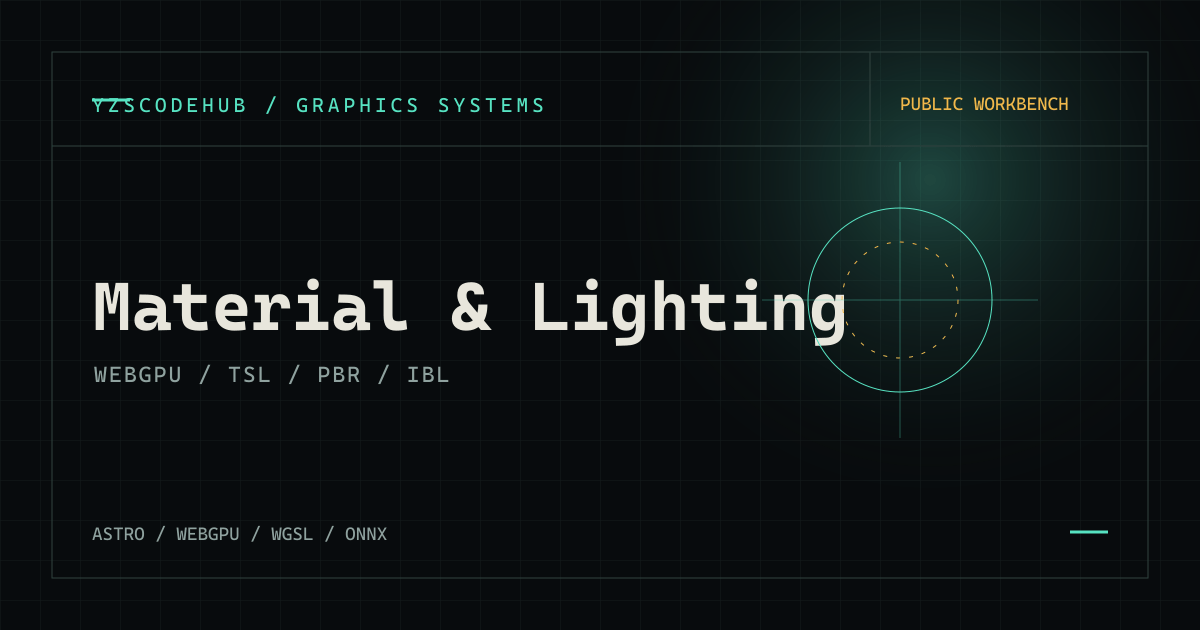
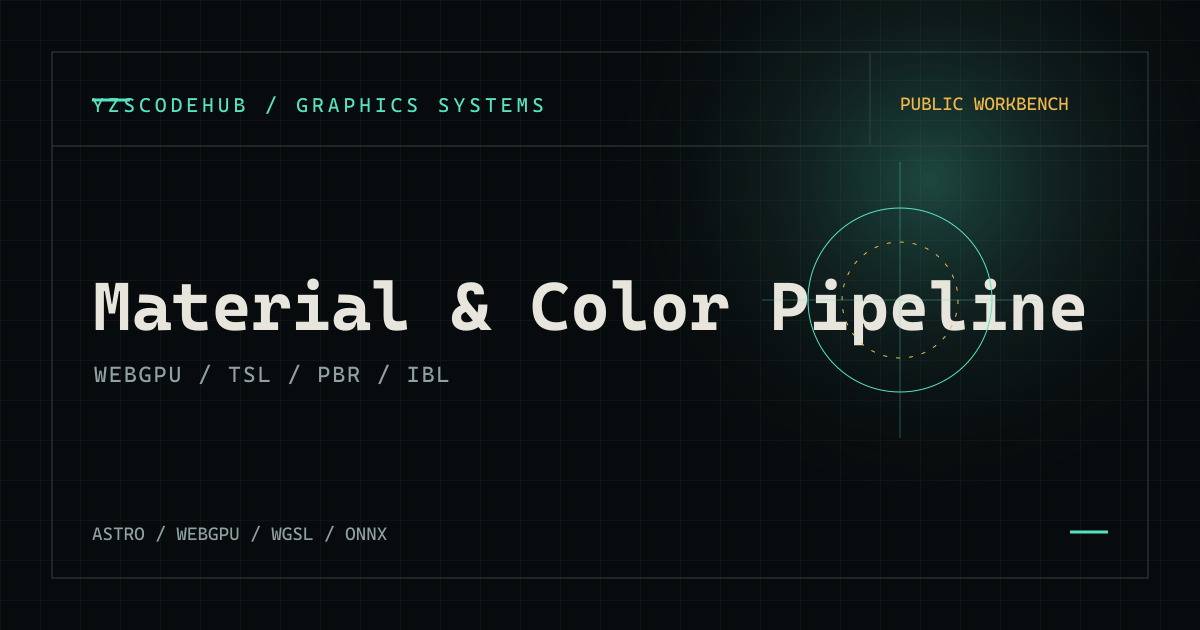
docs: align rendering maturity and evidence

Changed region(s): [[0.4317, 0.4222, 0.925, 0.573]]

diff --git a/src/content/demos/material-lighting.en.md b/src/content/demos/material-lighting.en.md
@@ -2,13 +2,13 @@
 routeSlug: material-lighting
 translationKey: material-lighting
 locale: en
-title: Material & Lighting Lab
+title: Material & Color Pipeline
 summary: Inspect a Three.js WebGPURenderer and TSL PBR calibration scene with WebGL2 and Canvas fallbacks.
 category: rendering
 renderer: Three.js WebGPURenderer + TSL
 backend: three-webgpu
-status: completed
-maturity: completed
+status: in-progress
+maturity: in-progress
 evidence: verified
 backends:
   - id: three-webgpu
@@ -42,17 +42,20 @@ fallback:
   description: A procedural Canvas 2D material preview remains available when the Three.js multi-backend renderer cannot initialize.
   image: /media/demos/material-lighting-poster.svg
 controls:
+  - "Preset: Dielectric / Metal / Rough / Clearcoat"
   - Base Color
-  - Metallic
+  - Metalness
   - Roughness
+  - Clearcoat
+  - Clearcoat Roughness
   - Exposure
   - "Tone Mapping: ACES / AgX / LINEAR"
-  - "Debug: FINAL / NORMAL / ROUGHNESS / METALNESS / DIRECT / INDIRECT"
+  - "View: FINAL / NORMAL / ROUGHNESS / METALNESS / DIRECT ISOLATION / IBL ISOLATION"
 metrics: []
 metricSource:
   kind: runtime
   description: The panel reports the active backend and requestAnimationFrame cadence; no fixed cross-device GPU timing claim is published.
-currentLimit: Frame cadence is CPU and RAF observability rather than a portable GPU benchmark; unsupported WebGPU features may fall back to WebGL2 or labeled Canvas.
+currentLimit: Real WebGPU hardware evidence is still pending; Direct/IBL are lighting-isolation views rather than captured render attachments, and frame cadence is not a portable GPU benchmark.
 fallbackImage: /media/demos/material-lighting-poster.svg
 relatedProjects:
   - real-time-rendering-lab
@@ -70,12 +73,14 @@ draft: false
 
 ## What runs
 
-The live path uses Three.js `WebGPURenderer` with TSL node materials. It builds a repeatable sphere, floor, procedural PMREM room, hemisphere light, moving directional light, rim light, and orbit camera. The material is a `MeshPhysicalNodeMaterial`, so the page can show normal, roughness, metalness, direct-light, and indirect-light views without changing the scene contract.
+The live path loads and validates the local Calibration Rig contract, then builds its sphere, rounded cube, metal ring, thin sheet, normal-groove object, roughness plane, procedural PMREM room, lights, and orbit camera. The controlled objects share a `MeshPhysicalNodeMaterial`, so preset and debug-view changes keep one repeatable scene contract.
 
 ## Controls and fallback
 
-Base Color, Metalness, Roughness, Exposure, and ACES/AgX/Linear tone mapping are wired to the live renderer. The same control family is kept in the Canvas fallback. Three.js may select WebGL2 internally when WebGPU is unavailable; if the multi-backend renderer itself fails, the page switches to the labeled Canvas approximation.
+Dielectric, Metal, Rough, and Clearcoat presets set exact Base Color, Metalness, Roughness, Clearcoat, and Clearcoat Roughness values. Those parameters, Exposure, and ACES/AgX/Linear tone mapping are wired to the live renderer and mirrored by the Canvas approximation. Three.js may select WebGL2 internally when WebGPU is unavailable; if the multi-backend renderer itself fails, the page switches to the labeled Canvas approximation.
 
 ## Evidence boundary
 
-This Demo verifies the material and debug-view behavior. The metric panel reports backend and frame cadence, not a universal GPU benchmark. It is a rendering study, not evidence that every device supports every Three.js WebGPU feature.
+This Demo verifies material parameters and lighting-isolation behavior. Direct Isolation disables the PMREM environment, while IBL Isolation disables direct lights; neither is presented as a captured attachment. The metric panel reports backend and frame cadence, not a universal GPU benchmark.
+
+On the first WebGPU device or WebGL context loss, the controller disposes the previous renderer and attempts one generation-guarded Three.js rebuild. A failed rebuild or second loss switches to the labeled Canvas approximation.

diff --git a/src/content/demos/gpu-particles.en.md b/src/content/demos/gpu-particles.en.md
@@ -7,8 +7,8 @@ summary: Compare a ping-pong particle simulation with GPU-driven instance visibi
 category: gpu
 renderer: Raw WebGPU + WGSL / Canvas 2D fallback
 backend: raw-webgpu
-status: completed
-maturity: completed
+status: in-progress
+maturity: in-progress
 evidence: measured
 backends:
   - id: raw-webgpu
@@ -31,7 +31,7 @@ requirements:
     capability: webgpu
 fallback:
   kind: canvas-2d
-  description: A reduced Canvas 2D lifecycle preview preserves the controls and labels itself when WebGPU is unavailable.
+  description: A labeled Canvas path reruns deterministic CPU frustum/LOD culling and shows a sampled visibility heatmap when WebGPU is unavailable.
   image: /media/demos/gpu-particles-poster.svg
 controls:
   - MODE SIMULATION
@@ -39,6 +39,9 @@ controls:
   - 25K particles
   - 100K particles
   - 250K particles
+  - 10K / 50K / 100K instances
+  - CPU BASELINE / RAW WEBGPU
+  - CAMERA SWEEP
   - Attractor range
   - Pointer attractor
   - Pause / Resume
@@ -56,23 +59,23 @@ relatedArticles:
   - webgpu-particles-path-tracing
   - gpu-driven-visibility-indirect
 assetIds:
-  - research-courtyard
+  - visibility-instance-field
 modes:
   - simulation
   - visibility
-referenceScene: research-courtyard
+referenceScene: visibility-instance-field
 sourceUrl: https://github.com/yzscodehub/graphics-portfolio/blob/main/src/demos/gpu-particles.ts
 draft: false
 ---
 
 ## What runs
 
-The WebGPU path keeps two particle buffers and alternates their read/write roles each frame. A Compute Pass updates position, velocity, age, lifetime, and seed; expired or escaped particles are respawned deterministically. A Render Pass consumes the written buffer and draws points whose color and alpha reflect remaining lifetime.
+Simulation keeps two particle buffers and alternates their read/write roles each frame. Visibility uses a separate deterministic instance field: Compute frustum culling selects an LOD, atomically compacts it into one of three fixed segments, writes three 32-byte indexed-indirect commands, and issues three `drawIndexedIndirect` calls against distinct index ranges. `firstInstance` remains zero for every command.
 
 ## Interaction and measurement
 
-The count buttons rebuild the resource set for 25K, 100K, or 250K particles. Pointer movement controls the attractor, the range controls its strength, and Pause/Reset act on both the native and Canvas implementations. If the adapter exposes `timestamp-query`, the Demo resolves separate Compute and Render intervals and reports them with a `gpu-timestamp-query` source; otherwise it explicitly reports timing as unavailable.
+Simulation count buttons rebuild 25K, 100K, or 250K particles. Visibility selects 10K, 50K, or 100K instances and exposes CPU Baseline, Raw WebGPU, Camera Sweep, Pause, and Reset. The CPU baseline reruns the same frustum/LOD reference every frame and reports CPU culling time. The GPU path performs low-frequency readback of all three commands plus tested, visible, and LOD counters. If the adapter exposes `timestamp-query`, Compute and Render intervals are reported separately; otherwise timing is explicitly unavailable.
 
 ## Fallback boundary
 
-The Canvas fallback implements the same lifecycle and attractor concepts at a reduced scale. It is useful for inspection, but its animation-frame cadence must not be compared directly with native GPU timestamps.
+The Canvas fallback reruns the same deterministic visibility reference but only draws a sampled heatmap. On the first `device.lost`, the controller disposes the old renderer and attempts one generation-guarded rebuild with the current mode, count, and camera-sweep state; a failed rebuild or second loss falls back to Canvas. Its CPU/animation-frame cadence must not be compared directly with native GPU timestamps. This Demo remains in progress until real-WebGPU three-command readback and performance acceptance are captured on the declared hardware.

diff --git a/src/content/demos/material-lighting.zh-CN.md b/src/content/demos/material-lighting.zh-CN.md
@@ -2,13 +2,13 @@
 routeSlug: material-lighting
 translationKey: material-lighting
 locale: zh-CN
-title: Material & Lighting Lab
+title: 材质与颜色管线
 summary: 使用 Three.js WebGPURenderer 与 TSL 检查 PBR 校准场景，并提供 WebGL2 和 Canvas 回退。
 category: rendering
 renderer: Three.js WebGPURenderer + TSL
 backend: three-webgpu
-status: completed
-maturity: completed
+status: in-progress
+maturity: in-progress
 evidence: verified
 backends:
   - id: three-webgpu
@@ -42,17 +42,20 @@ fallback:
   description: Three.js 多后端渲染器无法初始化时，继续显示程序化 Canvas 2D 材质预览。
   image: /media/demos/material-lighting-poster.svg
 controls:
+  - "材质预设：Dielectric / Metal / Rough / Clearcoat"
   - Base Color
-  - Metallic
+  - Metalness
   - Roughness
+  - Clearcoat
+  - Clearcoat Roughness
   - Exposure
   - "Tone Mapping: ACES / AgX / LINEAR"
-  - "Debug: FINAL / NORMAL / ROUGHNESS / METALNESS / DIRECT / INDIRECT"
+  - "视图：FINAL / NORMAL / ROUGHNESS / METALNESS / DIRECT ISOLATION / IBL ISOLATION"
 metrics: []
 metricSource:
   kind: runtime
   description: 面板报告当前后端和 requestAnimationFrame 节奏，不发布跨设备固定 GPU 耗时。
-currentLimit: 帧节奏只用于 CPU 与 RAF 可观测性，不是可移植的 GPU 基准；不支持的 WebGPU 特性可能回退到 WebGL2 或明确标注的 Canvas。
+currentLimit: 真实 WebGPU 硬件证据仍待完成；Direct/IBL 是光照隔离视图而非捕获附件，帧节奏也不是可移植 GPU 基准。
 fallbackImage: /media/demos/material-lighting-poster.svg
 relatedProjects:
   - real-time-rendering-lab
@@ -70,12 +73,14 @@ draft: false
 
 ## 实际运行内容
 
-实时路径使用 Three.js `WebGPURenderer` 和 TSL 节点材质，构建可重复的球体、地面、程序化 PMREM 房间、半球光、移动方向光、边缘光和轨道相机。材质采用 `MeshPhysicalNodeMaterial`，因此可以在不改变场景契约的情况下查看法线、粗糙度、金属度、直接光和间接光。
+实时路径会加载并校验本地 Calibration Rig 契约，再构建球体、圆角立方体、金属环、薄片、法线沟槽物体、粗糙度平面、程序化 PMREM 房间、灯光和轨道相机。受控物体共享 `MeshPhysicalNodeMaterial`，因此预设与调试视图始终使用同一套可重复场景契约。
 
 ## 控件与回退
 
-Base Color、Metalness、Roughness、Exposure 和 ACES/AgX/Linear 色调映射均连接到实时渲染器；Canvas 回退保留同一组材质控件。Three.js 在 WebGPU 不可用时可以在内部选择 WebGL2；多后端渲染器本身失败时，页面切换到明确标注的 Canvas 近似。
+Dielectric、Metal、Rough 与 Clearcoat 四个预设会设置精确的 Base Color、Metalness、Roughness、Clearcoat 和 Clearcoat Roughness。上述参数、Exposure 与 ACES/AgX/Linear 色调映射均连接到实时渲染器，并在 Canvas 近似路径中保持相同语义。Three.js 在 WebGPU 不可用时可以在内部选择 WebGL2。
 
 ## 证据边界
 
-本 Demo 验证材质和调试视图行为。指标面板报告后端和帧节奏，不是通用 GPU 基准，也不代表所有设备支持全部 Three.js WebGPU 特性。
+本 Demo 验证材质参数与光照隔离行为。Direct Isolation 会关闭 PMREM 环境，IBL Isolation 会关闭直射光；两者都不冒充捕获到的 Attachment。指标面板报告后端和帧节奏，不是通用 GPU 基准。
+
+首次发生 WebGPU Device 或 WebGL Context Loss 时，控制器会释放旧 Renderer，并尝试一次受 Generation Guard 保护的 Three.js 重建；重建失败或第二次 Loss 才切换到明确标注的 Canvas 近似。

diff --git a/src/content/demos/frame-inspector.en.md b/src/content/demos/frame-inspector.en.md
@@ -7,8 +7,8 @@ summary: Inspect ten real raw-WebGPU attachments, including a Reference Frame-lo
 category: engine
 renderer: Raw WebGPU attachments / Canvas 2D atlas fallback
 backend: raw-webgpu
-status: completed
-maturity: completed
+status: in-progress
+maturity: in-progress
 evidence: verified
 backends:
   - id: raw-webgpu
@@ -50,7 +50,7 @@ metrics: []
 metricSource:
   kind: runtime
   description: The inspector reports active backend, attachment format, range, last writer, and history state. Pixel Probe and Histogram 64 use low-frequency readback of real GPU attachments; no fixed performance number is published.
-currentLimit: Final and Canvas views cannot be read back, Cluster Heatmap belongs to a separate GPU device, and this inspector is not a complete RenderDoc replacement.
+currentLimit: The attachments currently come from the analytical Reference Frame rather than the packed Research Courtyard; Final/Canvas views cannot be read back and this is not a complete RenderDoc replacement.
 fallbackImage: /media/demos/frame-inspector-poster.svg
 relatedProjects:
   - engine-systems-explorer
@@ -62,11 +62,11 @@ relatedArticles:
   - rhi-abstraction-boundaries
   - clustered-deferred-lighting
 assetIds:
-  - research-courtyard
+  - reference-frame-procedural
 modes:
   - attachments
   - probe
-referenceScene: research-courtyard
+referenceScene: reference-frame-procedural
 sourceUrl: https://github.com/yzscodehub/graphics-portfolio/blob/main/src/demos/frame-inspector.ts
 draft: false
 ---
@@ -80,6 +80,7 @@ Cluster Light Count is an `r8unorm` texture written by a Reference Frame pass af
 ## Freeze and selection
 
 Selecting an attachment changes only the display view. Freeze stops the render loop and keeps the current textures for inspection; Resume allows the shared frame to advance again. A visibility pause resets temporal history on resume so it is not reused across a time discontinuity. Device loss falls back to a deterministic sibling Canvas atlas with the same attachment vocabulary.
+The first device loss attempts one generation-guarded Reference Frame rebuild and restarts attachment history. A failed rebuild or second loss falls back to the deterministic sibling Canvas atlas.
 
 Pixel Probe reads the selected non-Final attachment at the clicked location through an explicit GPU copy/readback. Histogram 64 makes a low-frequency whole-attachment copy and bins sampled values; HDR Lighting and TAA History use log-luminance bins, while Velocity uses scaled magnitude. Neither operation is available for Final or Canvas fallback, because those paths do not expose the same source attachment.
 

diff --git a/src/content/demos/clustered-lighting.en.md b/src/content/demos/clustered-lighting.en.md
@@ -7,8 +7,8 @@ summary: Compare Naive Forward, Deferred, and Clustered Lighting in one Research
 category: rendering
 renderer: Raw WebGPU / Canvas 2D fallback
 backend: raw-webgpu
-status: completed
-maturity: completed
+status: in-progress
+maturity: in-progress
 evidence: measured
 backends:
   - id: raw-webgpu
@@ -51,7 +51,7 @@ metrics:
 metricSource:
   kind: runtime
   description: GPU geometry, Compute assignment, and lighting time are reported only when timestamp-query is available. A low-frequency 64-light CPU reference readback checks GPU list membership and overflow separately.
-currentLimit: Cluster lists are CPU-built and uploaded, the courtyard is procedural, and Frame Inspector does not share this renderer's heatmap or GPU resources.
+currentLimit: Naive, Deferred, and Clustered now use separate pass DAGs, but this proxy courtyard has not completed real-WebGPU hardware validation; the packed scene is not yet connected, and Frame Inspector does not share this renderer's heatmap or GPU resources.
 fallbackImage: /media/demos/clustered-lighting-poster.svg
 relatedProjects:
   - real-time-rendering-lab
@@ -59,7 +59,7 @@ relatedArticles:
   - clustered-deferred-lighting
   - frame-inspector-observability
 assetIds:
-  - research-courtyard
+  - clustered-courtyard-proxy
 modes:
   - naive
   - deferred
@@ -80,3 +80,5 @@ Alongside Final, the page exposes a G-Buffer visualization, Depth Slice, and a l
 ## Current boundary
 
 This study does not implement Hi-Z, meshlets, transparent clustered-forward shading, a shadow atlas, or a general glTF editor. The current runtime uses a self-authored procedural Research Courtyard; the separately audited asset manifest reserves a later packed-scene path. Cluster Heatmap belongs only to this standalone renderer. Frame Inspector currently uses an independent Reference Frame and does not claim to display this heatmap or share its GPU resources.
+
+The first current-generation device loss rebuilds the selected mode, light count, and view once. A failed rebuild or second loss enters the labeled Canvas diagnostic fallback.

diff --git a/src/content/demos/clustered-lighting.zh-CN.md b/src/content/demos/clustered-lighting.zh-CN.md
@@ -7,8 +7,8 @@ summary: 在共享 Research Courtyard 中比较 Naive Forward、Deferred 与 Clu
 category: rendering
 renderer: Raw WebGPU / Canvas 2D 回退
 backend: raw-webgpu
-status: completed
-maturity: completed
+status: in-progress
+maturity: in-progress
 evidence: measured
 backends:
   - id: raw-webgpu
@@ -51,7 +51,7 @@ metrics:
 metricSource:
   kind: runtime
   description: timestamp-query 可用时分别报告 GPU geometry、Compute assignment 和 lighting 时间。低频 64-light CPU reference readback 单独核对 GPU list membership 与 overflow。
-currentLimit: Cluster List 当前由 CPU 构建并上传，Courtyard 仍为程序化场景，Frame Inspector 不共享此 Renderer 的 Heatmap 或 GPU 资源。
+currentLimit: Naive、Deferred 与 Clustered 现使用不同 pass DAG，但这个 proxy courtyard 尚未完成真实 WebGPU 硬件验收；packed scene 尚未接入，Frame Inspector 不共享此 Renderer 的 Heatmap 或 GPU 资源。
 fallbackImage: /media/demos/clustered-lighting-poster.svg
 relatedProjects:
   - real-time-rendering-lab
@@ -59,7 +59,7 @@ relatedArticles:
   - clustered-deferred-lighting
   - frame-inspector-observability
 assetIds:
-  - research-courtyard
+  - clustered-courtyard-proxy
 modes:
   - naive
   - deferred
@@ -80,3 +80,5 @@ Final 之外，页面允许查看 G-Buffer visualization、Depth Slice 和 Light
 ## 当前边界
 
 本 Demo 不实现 Hi-Z、Meshlet、透明物体的 Clustered Forward、阴影图集或通用 glTF 编辑器。当前运行时使用自制的程序化 Research Courtyard；独立审计的 asset manifest 只为后续 packed-scene 路径预留接口。Cluster Heatmap 只属于这个独立 renderer。Frame Inspector 当前使用独立的 Reference Frame，不声称显示此 Heatmap，也不声称共享 GPU 资源。
+
+当前 Generation 首次发生 Device Loss 时，会按选定模式、光源数量和 View 尝试重建一次；重建失败或第二次 Loss 才进入明确标注的 Canvas 诊断回退。

diff --git a/src/content/demos/shadow-aa.en.md b/src/content/demos/shadow-aa.en.md
@@ -7,8 +7,8 @@ summary: Compare shared raw-WebGPU shadow, G-Buffer, depth, velocity, temporal h
 category: rendering
 renderer: Raw WebGPU reference frame / Canvas 2D fallback
 backend: raw-webgpu
-status: completed
-maturity: completed
+status: in-progress
+maturity: in-progress
 evidence: verified
 backends:
   - id: raw-webgpu
@@ -46,7 +46,7 @@ metrics: []
 metricSource:
   kind: runtime
   description: The live renderer reports backend and selected mode; no fixed cross-device GPU performance number is published.
-currentLimit: The Canvas reject view is illustrative rather than a captured GPU attachment, and this study does not include a shadow atlas or production scene streaming.
+currentLimit: The live path currently uses the self-authored analytical Reference Frame rather than the packed Research Courtyard; the Canvas reject view is illustrative rather than a captured GPU attachment.
 fallbackImage: /media/demos/shadow-aa-poster.svg
 relatedProjects:
   - real-time-rendering-lab
@@ -54,11 +54,11 @@ relatedArticles:
   - shadow-temporal-aa
   - frame-inspector-observability
 assetIds:
-  - research-courtyard
+  - reference-frame-procedural
 modes:
   - shadow
   - temporal
-referenceScene: research-courtyard
+referenceScene: reference-frame-procedural
 sourceUrl: https://github.com/yzscodehub/graphics-portfolio/blob/main/src/demos/shadow-aa.ts
 draft: false
 ---
@@ -74,3 +74,4 @@ TAA uses UV velocity projected from current/previous world points, Halton jitter
 ## Fallback boundary
 
 When WebGPU cannot initialize or the device is lost, the page switches to a clearly labeled Canvas comparison. Its reject view is an illustration, not a captured GPU reject attachment; the fallback preserves mode vocabulary and reset behavior but is not a substitute for the raw G-Buffer implementation.
+On the first device loss, the controller first attempts one generation-guarded Reference Frame rebuild; initialization failure or a second loss enters the Canvas comparison.

diff --git a/src/content/demos/path-tracer.en.md b/src/content/demos/path-tracer.en.md
@@ -7,8 +7,8 @@ summary: Trace a procedural Cornell scene with a CPU median BVH, triangle/materi
 category: gpu
 renderer: Raw WebGPU compute + display / Canvas 2D fallback
 backend: raw-webgpu
-status: completed
-maturity: completed
+status: in-progress
+maturity: in-progress
 evidence: verified
 backends:
   - id: raw-webgpu
@@ -68,6 +68,21 @@ The CPU constructs a small Cornell-style scene, median-splits its triangles into
 
 The four bounce buttons update the uniform contract and reset the sample counter. Pause keeps displaying the current accumulation without adding samples; Reset SPP clears the accumulation state and advances the camera revision. The panel exposes SPP and bounce count, while avoiding a universal quality or speed claim.
 
+## Convergence and traversal evidence
+
+The evidence panel records a real low-frequency direct-light MSE curve at
+1, 2, 4, 8, 16, 32, and 64 samples per pixel. Its self-made reference uses
+4,096 samples across 16 fixed lanes and is SHA-256 bound in source. This is
+not full image error or a GPU benchmark; it is a small reproducible estimator
+check that replaces a theoretical 1/sqrt(SPP) quality claim.
+
+The WebGPU path also exposes a cumulative bounded-BVH stack overflow count.
+The current Cornell scene is expected to remain at zero; a non-zero count is a
+warning that traversal skipped child-pair pushes and the sample must not be
+treated as complete evidence.
+
 ## Fallback boundary
 
 The CPU Canvas path is intentionally labeled and uses a visual path-like approximation. It preserves the interaction contract, but its samples and frame cadence are not GPU measurements.
+
+The first current-generation device loss attempts one rebuild while preserving bounce and pause state, but resets accumulation to 0 SPP. A failed rebuild or second loss enters the Canvas fallback.
